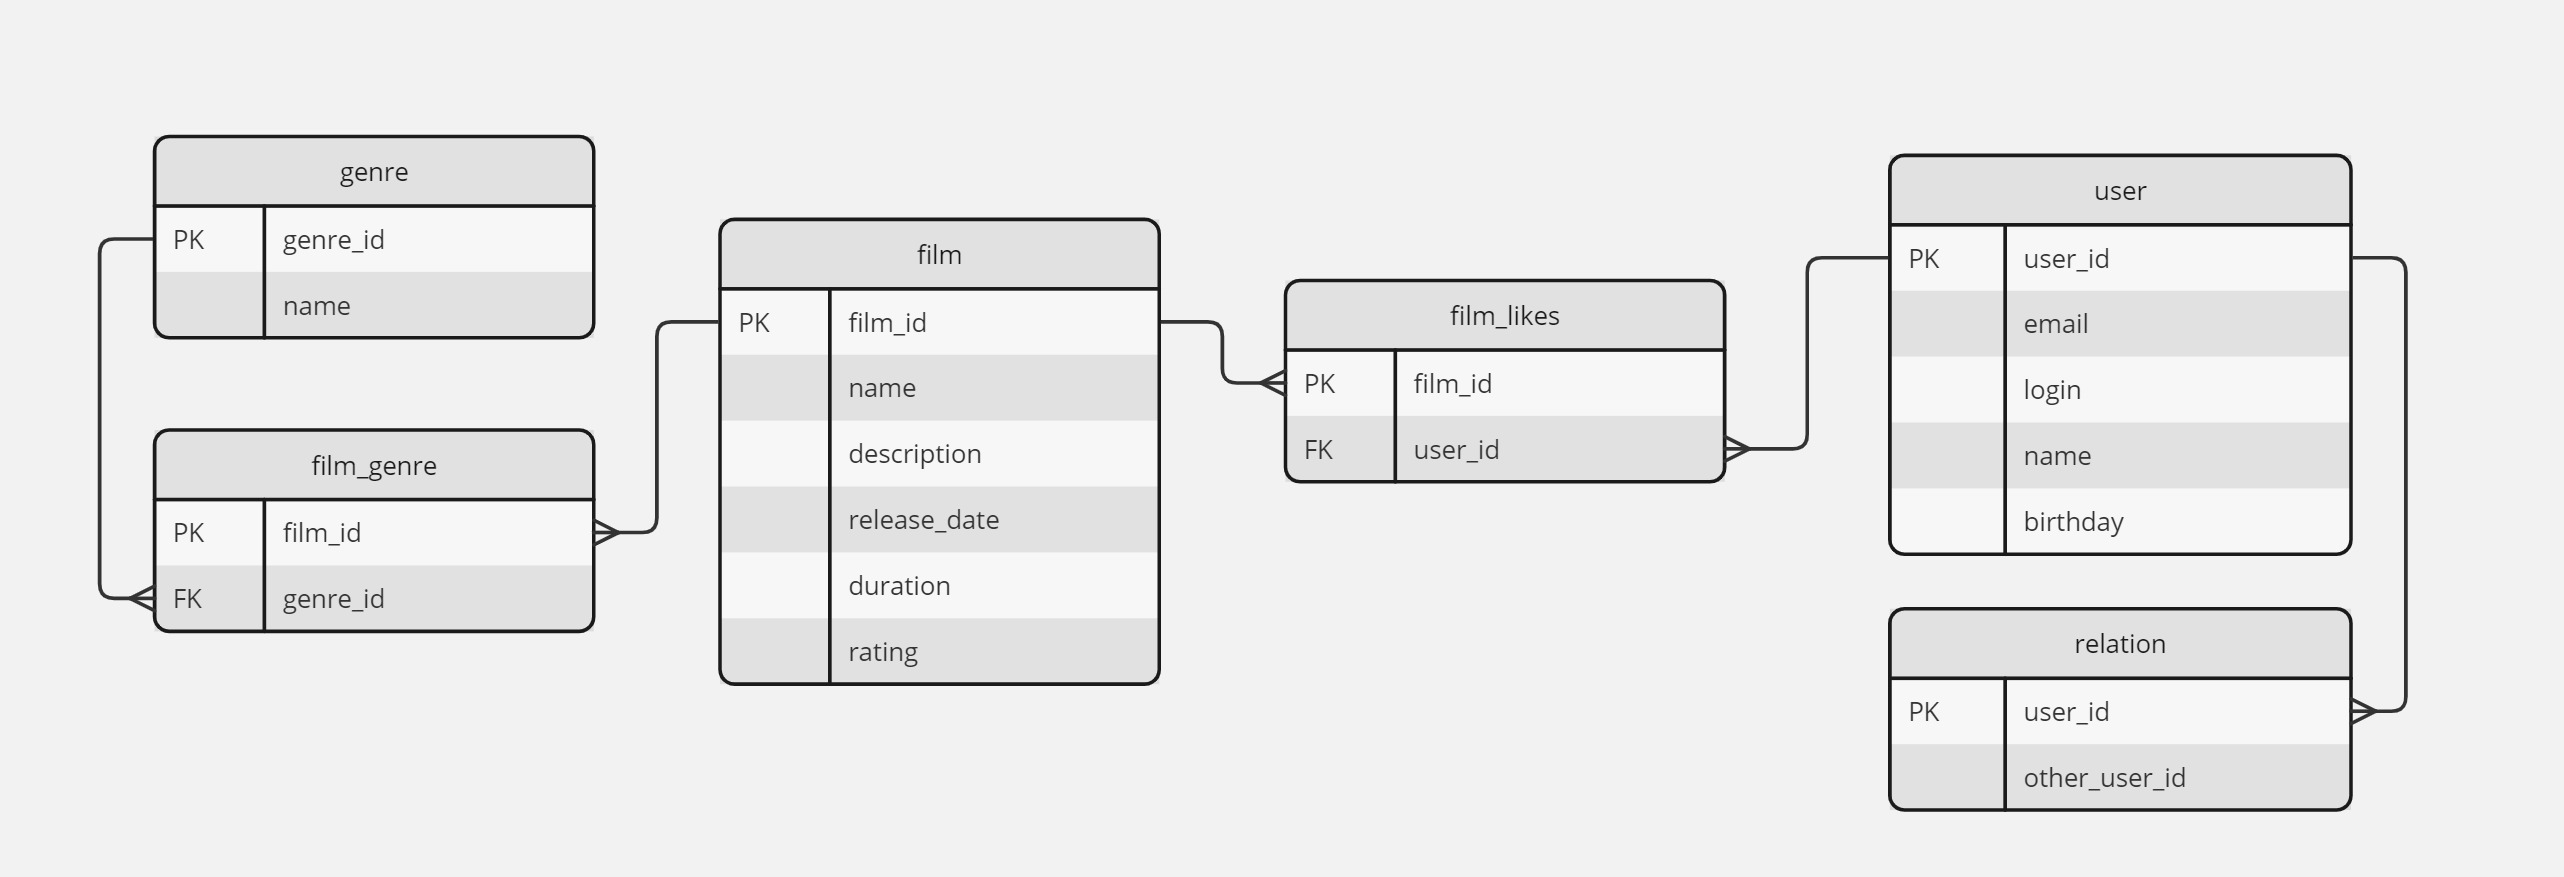
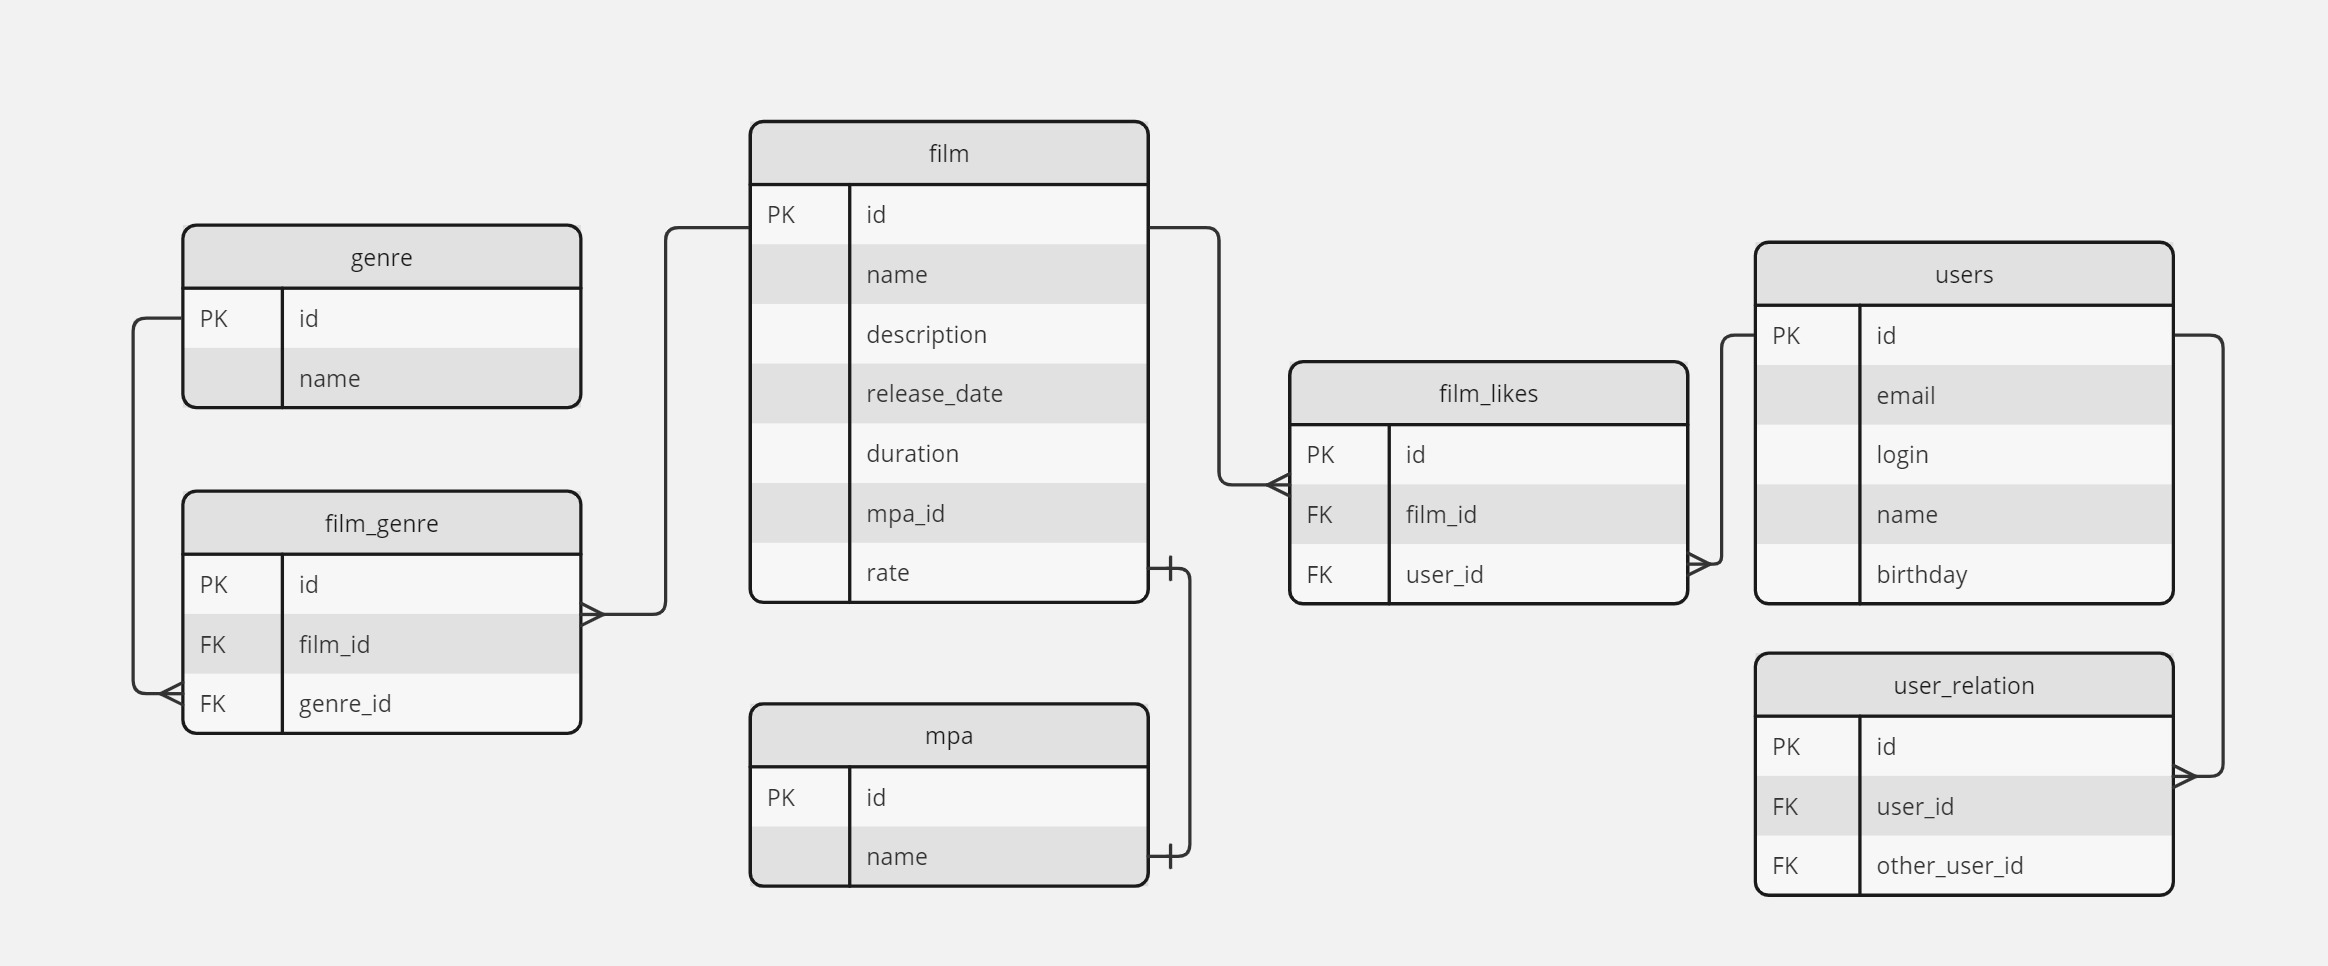
Edited README

diff --git a/README.md b/README.md
@@ -1,36 +1,50 @@
 # java-filmorate
+
 ER-диаграмма для проекта java-filmorate
 ![ER-диаграмма](ER-diagram.jpg)
 
-Описание диаграммы: 
+Описание диаграммы:
 
 **film** - содержит данные о фильмах
-- film_id(PK) - идентификатор фильма, является первичным ключом
+
+- id(PK) - идентификатор фильма, является первичным ключом
 - name - название фильма
 - description - описание фильма
 - release_date - дата релиза фильма
 - duration - длительность фильма
-- rating - возрастной рейтинг фильма
+- mpa_id - идентификатор mpa вторичный ключ ссылается на таблицу mpa(id)
+- rate - рейтинг фильма (не используется)
 
 **film_likes** - содержит данные о фильмах которым поставили лайк пользователи
 Связана с таблице user связью один(user) ко многим(film_likes) по полю user_id
 Связана с таблице film связью один(film) ко многим(film_likes) по полю film_id
-- film_id(PK) - идентификатор фильма по которому пользователь ставит лайк, является первичным ключом
-- user_id(FK) - идентификатор пользователя, который поставил лайк фильму
+
+- id(PK) - идентификатор первичный ключ
+- film_id(FK) - идентификатор фильма по которому пользователь ставит лайк вторичный ключ
+- user_id(FK) - идентификатор пользователя, который поставил лайк фильму вторичный ключ
 
 **genre** - содержит данные о жанрах фильмов
-- genre_id(PK) - идентификатор жанра, является первичным ключом
+
+- id(PK) - идентификатор жанра, является первичным ключом
 - name - название жанра
+-
+
+**mpa** - содержит данные о рейтингах фильмов
+
+- id(PK) - идентификатор mpa, является первичным ключом
+- name - название mpa
 
 **film_genre** - содержит данные о жанрах фильмах(id)
-Связана с таблицей genre связью один(genre) к многим(film_genre) по полю genre_id 
+Связана с таблицей genre связью один(genre) к многим(film_genre) по полю genre_id
 и с таблицей film связью один(film) к многим(film_genre) по полю film_id
-- film_id(PK) - идентификатор фильма, является первичным ключом
+
+- id(PK) - идентификатор первичный ключ
+- film_id(FK) - идентификатор фильма, является первичным ключом
 - genre_id(FK) - идентификатор жанра, является внешним ключом
 
-
 **user** - содержит данные о пользователях
-- user_id(PK) - идентификатор пользователя, является первичным ключом
+
+- id(PK) - идентификатор пользователя, является первичным ключом
 - email - электронная почта пользователя
 - login - логин пользователя
 - name - имя или никнейм пользователя
@@ -38,43 +52,64 @@ ER-диаграмма для проекта java-filmorate
 
 **relation** - содержит данные о связях(дружба) пользователей друг с другом
 Связана с таблицей user связью один(user) к многим(relation) по полю user_id
-- user_id(PK) - идентификатор пользователя, является первичным ключом
-- other_user_id - идентификатор другого пользователя (друга)
+
+- id(PK) - идентификатор первичный ключ
+- user_id(FK) - идентификатор пользователя, является первичным ключом
+- other_user_id(FK) - идентификатор другого пользователя (друга)
 
 Примеры SQL запросов:
 Получить все фильмы:
+
 ```sql
 SELECT *
 FROM film;
 ```
+
 Получить фильмы жанра "Триллер":
+
 ```sql
-SELECT * FROM film as f
-JOIN film_genre as fg ON fg.film_id=f.film_id
-WHERE f.film_id in (SELECT genre_id FROM genre WHERE name='Триллер');
+SELECT *
+FROM film as f
+         JOIN film_genre as fg ON fg.film_id = f.id
+WHERE f.id in (SELECT genre_id FROM genre WHERE name = 'Триллер');
 ```
+
 Получить топ 10 популярных фильмов по лайкам:
+
 ```sql
-SELECT * FROM film
-ORDER BY likes DESC
+SELECT *
+FROM film as f
+         LEFT JOIN film_like as fl ON fl.film_id = f.id
+         JOIN mpa as m ON m.id = f.mpa_id
+GROUP BY fl.user_id, f.id
+ORDER BY COUNT(fl.user_id) DESC
 LIMIT 10; 
 ```
+
 Получить всех пользователей:
+
 ```sql
 SELECT *
-FROM user;
+FROM users;
 ```
+
 Получить всех друзей пользователя с user_id=1:
+
 ```sql
 SELECT *
-FROM user as u
-WHERE user_id in (SELECT other_user_id FROM relation as r WHERE r.user_id=1);
+FROM users as u
+WHERE id in (SELECT other_user_id FROM user_relation as r WHERE r.user_id = 1);
 ```
 
 Получить всех общих друзей пользователя с user_id=1 и user_id=2:
+
 ```sql
 SELECT *
-FROM user as u
-WHERE user_id in
-(SELECT other_user_id FROM relation as r WHERE r.user_id=1 and other_user_id in (SELECT other_user_id FROM relation as r1 WHERE r1.user_id=2));
+FROM users as u
+WHERE id in
+      (SELECT other_user_id
+       FROM user_relation as r
+       WHERE r.user_id = 1
+         and other_user_id in
+             (SELECT other_user_id FROM USER_RELATION as r1 WHERE r1.user_id = 2));
 ```
